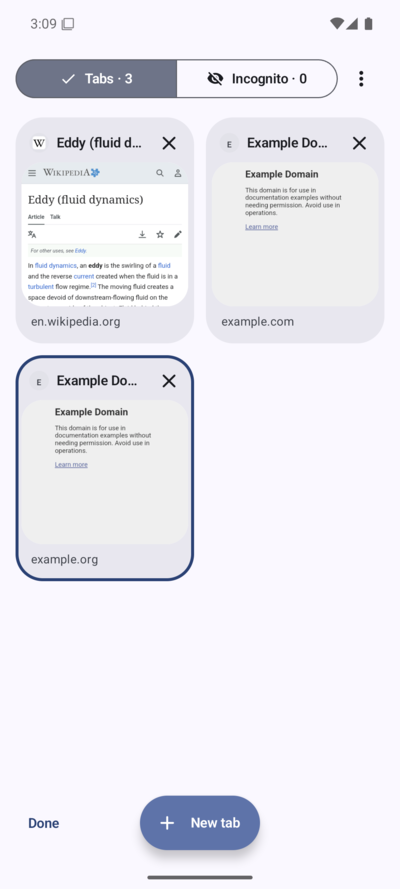
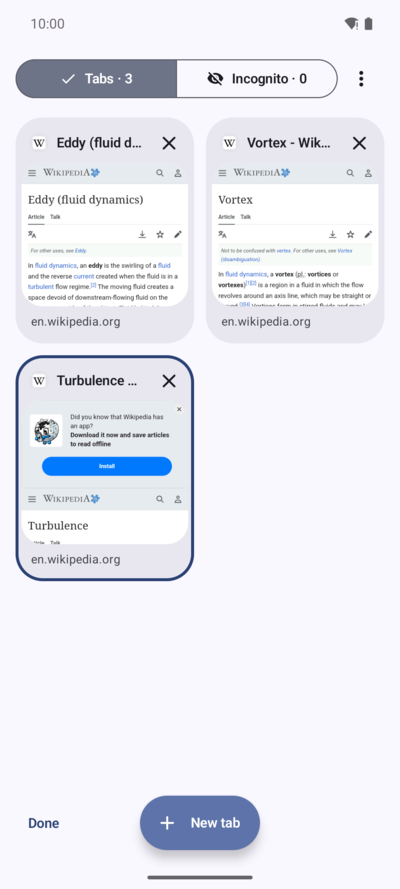
Refresh README and screenshots for the new UI
Retake all screenshots (home, browsing, tabs, menu, incognito, settings),
add the welcome tour, and drop the outdated blob: download limitation.

diff --git a/README.md b/README.md
@@ -24,6 +24,14 @@ icons or assets with any other browser.
   <img src="docs/screenshots/settings.png" width="180" alt="Settings">
 </p>
 
+The welcome tour on first launch:
+
+<p align="center">
+  <img src="docs/screenshots/tour-welcome.png" width="180" alt="Welcome tour, first slide">
+  <img src="docs/screenshots/tour-private.png" width="180" alt="Welcome tour, privacy slide">
+  <img src="docs/screenshots/tour-customize.png" width="180" alt="Welcome tour, theme and search engine picker">
+</p>
+
 ## Build
 
 Requirements: JDK 21+ (tested on 26), Android SDK with platform 37 and build-tools 37.
@@ -77,13 +85,15 @@ runtime permissions, external apps, fullscreen video) leaves the ViewModel as a 
   `||domain^` rules.
 - **Downloads.** Own resumable HTTP engine (Range/ETag) with a foreground service; finished files are
   published to `Downloads` through MediaStore. Pause/resume, retry, speed, notifications.
+- **Welcome tour.** First launch shows a five-step tour with a hero shape that morphs as you swipe. Theme, colours, search engine and toolbar position apply to the real settings live. It is skipped when the app opens from a link, and Settings > About can replay it.
+- **Passwords.** Sign-in and sign-up forms are detected by a script injected through `addWebMessageListener`; Eddy asks to save or update only after the sign-in succeeds. Passwords are AES-256-GCM encrypted with an Android Keystore key, autofill needs a tap and matches the exact origin, and the manager sits behind the device screen lock with `FLAG_SECURE`. Passwords import and export as Chrome-style CSV (`name,url,username,password,note`); export warns that the file is plain text.
 - **Safety.** Certificate errors show a native page; proceeding requires an explicit confirmation and
   sub-resource errors are always cancelled. Background-triggered external-app launches are ignored.
 
 ## Known limitations
 
 - WebView does not implement the Web Notifications API, so there is no per-site notification switch.
-- `blob:` downloads are not supported (the WebView hands over an unreadable URL).
+- `blob:` downloads and password autofill need a recent Android System WebView. On older ones Eddy says so and turns the password switches off.
 - Blocking is domain-based only; there is no cosmetic (element-hiding) filtering.
 - User-facing strings are inline English, not yet extracted to resources.
 
